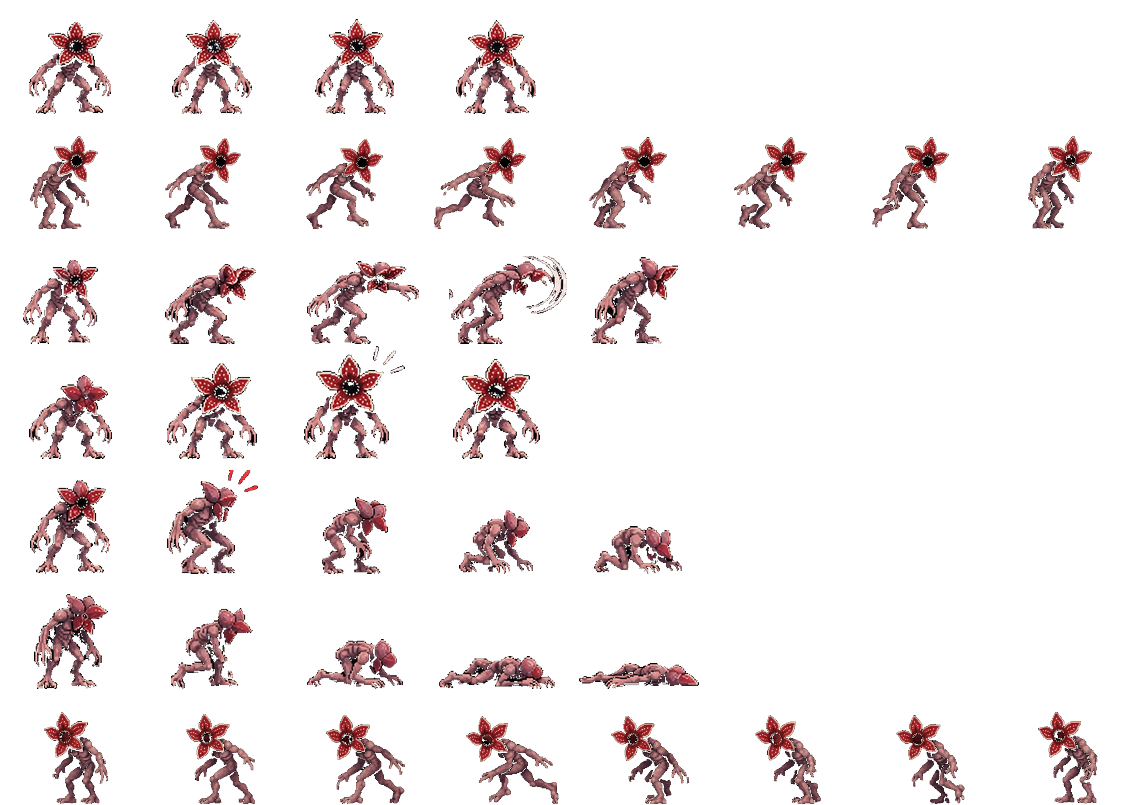
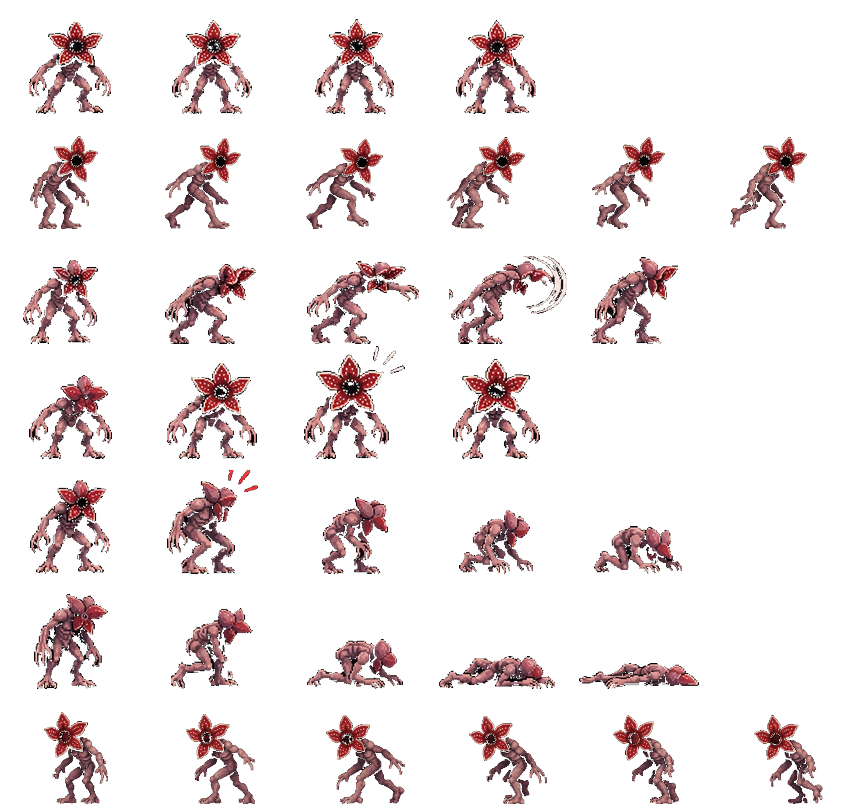
Andar mas fluido (ciclo simetrico y balanceo), pelo de Mike sin transparencias, Eleven con telequinesis, AGOTADA y sangrado de nariz

diff --git a/js/game.js b/js/game.js
@@ -413,6 +413,7 @@ function updatePlayer(dt) {
     if (used) p.shootCd = Math.max(p.shootCd, 0.3);
   }
   const firing = down(...K.fire) && !p.held;
+  if (p.id === 'eleven' && p.jam > 0 && Math.random() < 0.3) G.parts.push({ x: p.x + p.face * 11, y: p.y - 80, vx: rnd(-10, 10), vy: rnd(0, 30), life: 0.7, max: 0.7, color: '#c4101e', g: 520, size: 2.5 });
   if (p.jam > 0) { p.jam -= dt; if (p.jam <= 0) { p.heat = 0.3; Snd.ok(); } }
   else if (firing && !p.c.melee) p.holdT = Math.min(2, p.holdT + dt);
   if (!firing || p.jam > 0) p.holdT = Math.max(0, p.holdT - dt * 3);
@@ -1240,13 +1241,21 @@ function drawPlayer(p, camX) {
   let an = a, flipP = p.face < 0;
   if (flipP && ATLAS[p.id].anims[a + 'L']) { an = a + 'L'; flipP = false; }
   drawCarryBack(p, x);
-  if (p.bindT > 0) { ctx.save(); ctx.shadowColor = '#ff2060'; ctx.shadowBlur = 18; sprite(p.id, an, f, x, p.y, p.c.sc, flipP); ctx.restore(); }
-  else sprite(p.id, an, f, x, p.y, p.c.sc, flipP);
+  // balanceo al andar: el cuerpo sube en el paso y baja en el apoyo, para que el ciclo se vea fluido
+  const bob = (a === 'walk' || a === 'run') && p.onGround && Math.abs(p.vx) > 5 ? -Math.round(1.6 * (1 - (f % 3) / 2)) : 0;
+  if (p.bindT > 0) { ctx.save(); ctx.shadowColor = '#ff2060'; ctx.shadowBlur = 18; sprite(p.id, an, f, x, p.y + bob, p.c.sc, flipP); ctx.restore(); }
+  else sprite(p.id, an, f, x, p.y + bob, p.c.sc, flipP);
   drawCarryFront(p, x);
   drawWeapon(p, x);
+  if (p.id === 'eleven' && !p.dead && (p.heat > 0.5 || p.jam > 0)) { // el esfuerzo telequinético le hace sangrar la nariz
+    const k = p.jam > 0 ? 1 : (p.heat - 0.5) / 0.5, nx = x + p.face * 11, len = 3 + Math.round(9 * k) + (p.jam > 0 ? Math.round(2 + 2 * Math.sin(G.t * 9)) : 0);
+    ctx.fillStyle = '#7a0a14'; ctx.fillRect(nx - 1, p.y - 90, 4, len + 2);
+    ctx.fillStyle = '#d4182a'; ctx.fillRect(nx, p.y - 90, 2, len);
+    ctx.fillStyle = '#ff5a66'; ctx.fillRect(nx, p.y - 90, 1, Math.max(1, len - 3));
+  }
   if (!p.held && !p.dead && G.items.some(it => it.type === 'prop' && Math.abs(it.x - p.x) < 46 && Math.abs(it.y - (p.y - 20)) < 70)) text('DISPARA: COGER', x, p.y - 128, 8, '#9fe0ff', 'center');
   if (p.held && !p.dead) { ctx.save(); ctx.translate(x, p.y - 112 + Math.sin(G.t * 5) * 2); drawProp(p.held, 0.7); ctx.restore(); }
-  if (p.jam > 0) text('¡SOBRECALENTADO!', x, p.y - 128, 8, Math.floor(G.t * 8) % 2 ? '#ff4040' : '#ffd34d', 'center');
+  if (p.jam > 0) text(p.id === 'eleven' ? '¡AGOTADA!' : '¡SOBRECALENTADO!', x, p.y - 128, 8, Math.floor(G.t * 8) % 2 ? '#ff4040' : '#ffd34d', 'center');
   if (p.melee > 0 && p.melee < 0.28) { // estela del bate
     const prog = 1 - p.melee / 0.36;
     ctx.save(); ctx.translate(x + p.face * 38, p.y - 56); ctx.scale(p.face, 1);
@@ -1274,7 +1283,7 @@ function drawHUD() {
   }
   text(`VIDAS x${Math.max(0, G.lives)}`, 84, 70, 9, '#fff');
   ctx.save(); ctx.translate(200, 62); drawGrenade(ctx, 0.62); ctx.restore(); text(`x${p.gren}`, 214, 70, 10, '#ffb060');
-  text(`ARMA ${'*'.repeat(p.wpn)}`, 190, 34, 9, '#9fe0ff');
+  if (p.id === 'eleven') text(`TELEQUINESIS ${'*'.repeat(p.wpn)}`, 190, 34, 7, '#d8a8ff'); else text(`ARMA ${'*'.repeat(p.wpn)}`, 190, 34, 9, '#9fe0ff');
   if (!c.melee) { // barra de calor del arma
     ctx.fillStyle = '#2a0a10'; ctx.fillRect(190, 40, 108, 8);
     ctx.fillStyle = p.jam > 0 ? (Math.floor(G.t * 8) % 2 ? '#ff2a2a' : '#7a1010') : p.heat < 0.6 ? '#ffd34d' : p.heat < 0.85 ? '#ff8a30' : '#ff3030';

diff --git a/js/atlas.js b/js/atlas.js
@@ -10,7 +10,7 @@ window.ATLAS = {
    },
    "walk": {
     "row": 1,
-    "n": 8
+    "n": 6
    },
    "shoot": {
     "row": 2,
@@ -22,7 +22,7 @@ window.ATLAS = {
    },
    "walkL": {
     "row": 4,
-    "n": 8
+    "n": 6
    }
   }
  },
@@ -37,7 +37,7 @@ window.ATLAS = {
    },
    "walk": {
     "row": 1,
-    "n": 8
+    "n": 6
    },
    "attack": {
     "row": 2,
@@ -57,7 +57,7 @@ window.ATLAS = {
    },
    "walkL": {
     "row": 6,
-    "n": 8
+    "n": 6
    }
   }
  },
@@ -72,7 +72,7 @@ window.ATLAS = {
    },
    "walk": {
     "row": 1,
-    "n": 8
+    "n": 6
    },
    "power": {
     "row": 2,
@@ -84,14 +84,14 @@ window.ATLAS = {
    },
    "walkL": {
     "row": 4,
-    "n": 8
+    "n": 6
    }
   }
  },
  "mike": {
   "img": "assets/mike.png",
   "cw": 126,
-  "ch": 123,
+  "ch": 124,
   "anims": {
    "idle": {
     "row": 0,
@@ -99,7 +99,7 @@ window.ATLAS = {
    },
    "walk": {
     "row": 1,
-    "n": 8
+    "n": 6
    },
    "talk": {
     "row": 2,
@@ -111,7 +111,7 @@ window.ATLAS = {
    },
    "walkL": {
     "row": 4,
-    "n": 8
+    "n": 6
    }
   }
  },
@@ -126,7 +126,7 @@ window.ATLAS = {
    },
    "walk": {
     "row": 1,
-    "n": 8
+    "n": 6
    },
    "talk": {
     "row": 2,
@@ -138,7 +138,7 @@ window.ATLAS = {
    },
    "walkL": {
     "row": 4,
-    "n": 8
+    "n": 6
    }
   }
  },
@@ -153,11 +153,11 @@ window.ATLAS = {
    },
    "walk": {
     "row": 1,
-    "n": 8
+    "n": 6
    },
    "run": {
     "row": 2,
-    "n": 8
+    "n": 6
    },
    "attack": {
     "row": 3,
@@ -173,18 +173,18 @@ window.ATLAS = {
    },
    "walkL": {
     "row": 6,
-    "n": 8
+    "n": 6
    },
    "runL": {
     "row": 7,
-    "n": 8
+    "n": 6
    }
   }
  },
  "lucas": {
   "img": "assets/lucas.png",
   "cw": 155,
-  "ch": 114,
+  "ch": 115,
   "anims": {
    "idle": {
     "row": 0,
@@ -200,11 +200,11 @@ window.ATLAS = {
    },
    "walk": {
     "row": 3,
-    "n": 8
+    "n": 6
    },
    "walkL": {
     "row": 4,
-    "n": 8
+    "n": 6
    }
   }
  },

diff --git a/sw.js b/sw.js
@@ -1,6 +1,6 @@
 /* Service worker: deja el juego instalable y jugable sin conexión.
  * Estrategia "stale-while-revalidate": sirve de la caché y actualiza en segundo plano. */
-const CACHE = 'stranger-slug-v14';
+const CACHE = 'stranger-slug-v15';
 const ASSETS = [
   './', 'index.html', 'manifest.webmanifest',
   'js/atlas.js', 'js/game.js', 'js/touch.js',

diff --git a/tools/build_assets.py b/tools/build_assets.py
@@ -43,12 +43,15 @@ def frames_in(img, box, bg, thr=26, gap=7, minw=14, expect=None):
         runs = [(cuts[i], cuts[i+1]-1) for i in range(expect)]
     return crop, runs
 
-def cut(crop, run, bg, thr=26, solid=False, boost=1.0):
+def cut(crop, run, bg, thr=26, solid=False, boost=1.0, inner=12, local_bg=False, solid_top=0.0, fg_thr=14):
     """devuelve RGBA recortado, quitando fondo por flood fill desde el borde"""
     a, b = run
     f = crop.crop((max(a-2, 0), 0, min(b+3, crop.width), crop.height)).convert('RGB')
     w, h = f.size
     px = f.load()
+    if local_bg:  # fondo = mediana del borde del propio frame (pelo casi negro sobre fondo oscuro)
+        edge = sorted([px[x, y] for x in range(w) for y in (0, h-1)] + [px[x, y] for y in range(h) for x in (0, w-1)])
+        bg = edge[len(edge)//2]
     seen = [[False]*w for _ in range(h)]
     stack = []
     for x in range(w):
@@ -61,13 +64,14 @@ def cut(crop, run, bg, thr=26, solid=False, boost=1.0):
         if dist(px[x, y], bg) > thr: continue
         seen[y][x] = True
         stack += [(x+1, y), (x-1, y), (x, y+1), (x, y-1)]
-    if solid:
+    seen_n = seen
+    if solid or solid_top:
         # silueta cerrada: el cuerpo oscuro no se confunde con el fondo del sheet
         fg = Image.new('L', (w, h))
         fp = fg.load()
         for y in range(h):
             for x in range(w):
-                fp[x, y] = 255 if dist(px[x, y], bg) > 14 else 0
+                fp[x, y] = 255 if dist(px[x, y], bg) > fg_thr else 0
         cp = fg.filter(ImageFilter.MaxFilter(5)).filter(ImageFilter.MinFilter(5)).load()
         seen = [[False]*w for _ in range(h)]
         stack = [(x, 0) for x in range(w)] + [(x, h-1) for x in range(w)] + [(0, y) for y in range(h)] + [(w-1, y) for y in range(h)]
@@ -76,11 +80,14 @@ def cut(crop, run, bg, thr=26, solid=False, boost=1.0):
             if x < 0 or y < 0 or x >= w or y >= h or seen[y][x] or cp[x, y]: continue
             seen[y][x] = True
             stack += [(x+1, y), (x-1, y), (x, y+1), (x, y-1)]
+    if solid_top:  # silueta cerrada solo arriba (cabeza y pelo); abajo, el recorte normal
+        seen_c, seen = seen, seen_n
     out = Image.new('RGBA', (w, h))
     op = out.load()
     for y in range(h):
         for x in range(w):
-            if seen[y][x] or (not solid and dist(px[x, y], bg) < 12):
+            top = solid_top and y < solid_top * h
+            if (seen_c[y][x] if top else (seen[y][x] or (not solid and dist(px[x, y], bg) < inner))):
                 op[x, y] = (0, 0, 0, 0)
             else:
                 r, g, b = px[x, y]
@@ -109,7 +116,7 @@ def cut(crop, run, bg, thr=26, solid=False, boost=1.0):
         print('   (aviso) frame toca el borde vertical del recorte', 'arriba' if bb[1] <= 0 else 'abajo')
     return out.crop(bb)
 
-def sheet_frames(sheet, bg, box, n, thr=26, scrub=True):
+def sheet_frames(sheet, bg, box, n, thr=26, scrub=True, cut_thr=None, local_bg=False, solid_top=0.0):
     img = Image.open(os.path.join(SRC, sheet)).convert('RGB')
     # borra la rejilla del panel: sus píxeles son grises apagados (el personaje no usa grises medios)
     x0, y0, x1, y1 = box
@@ -119,7 +126,8 @@ def sheet_frames(sheet, bg, box, n, thr=26, scrub=True):
             c = px[x, y]
             if 66 <= min(c) and max(c) <= 112 and max(c) - min(c) <= 20 and c[0] >= c[1] - 2: px[x, y] = bg
     crop, runs = frames_in(img, box, bg, thr, expect=n)
-    return [thin_clean(fr) for fr in (cut(crop, r, bg, thr) for r in runs) if fr is not None]
+    ct = cut_thr or thr
+    return [thin_clean(fr) for fr in (cut(crop, r, bg, ct, inner=min(12, ct), local_bg=local_bg, solid_top=solid_top) for r in runs) if fr is not None]
 
 def head_x(fr):
     """ancla de los frames de andar: centro de cabeza y tronco (8%-45% de la altura), que apenas se mueven en el ciclo;
@@ -155,7 +163,7 @@ def thin_clean(fr, passes=2, opening=True):
     bb = fr.getbbox()
     return fr.crop(bb) if bb else fr
 
-def build_char(name, sheet, bg, rows, thr=26, blank=(), solid=False, boost=1.0, idle_h=None, override=None):
+def build_char(name, sheet, bg, rows, thr=26, blank=(), solid=False, boost=1.0, idle_h=None, override=None, solid_top=0.0, fg_thr=14):
     """rows: {anim: (box, expected_count, anchor)}  anchor: 'c' centro | ('l', offset)"""
     img = Image.open(os.path.join(SRC, sheet)).convert('RGB')
     from PIL import ImageDraw
@@ -168,7 +176,7 @@ def build_char(name, sheet, bg, rows, thr=26, blank=(), solid=False, boost=1.0, 
             print(f'  !! {name}.{anim}: esperaba {n} frames, detecte {len(runs)} {runs}')
         for i, r in enumerate(runs):
             if i == 0: print(f'  [{name}.{anim}]')
-            fr = cut(crop, r, bg, thr, solid, boost)
+            fr = cut(crop, r, bg, thr, solid, boost, solid_top=solid_top, fg_thr=fg_thr)
             if fr is None: continue
             ax = fr.width/2 if anchor == 'c' else head_x(fr) if anchor == 'torso' else anchor[1]
             items.append((anim, i, fr, ax))
@@ -182,13 +190,15 @@ def build_char(name, sheet, bg, rows, thr=26, blank=(), solid=False, boost=1.0, 
         h_idle = next(fr.height for a, i, fr, _ in items if a == 'idle' and i == 0)
         for anim, ov in override.items():
             osheet, obg, obox, on = ov['sheet'], ov['bg'], ov['box'], ov['n']
-            kw = dict(thr=ov.get('thr', 26), scrub=ov.get('scrub', True))
+            kw = dict(thr=ov.get('thr', 26), scrub=ov.get('scrub', True), cut_thr=ov.get('cut_thr'), local_bg=ov.get('local_bg', False), solid_top=ov.get('solid_top', 0.0))
             drop = set(ov.get('drop', ()))   # frames "de pie" (pies juntos) que harían parar el ciclo
-            right = [f for i, f in enumerate(sheet_frames(osheet, obg, obox, on, **kw)) if i not in drop]
+            pick = ov.get('pick')            # ciclo simétrico: solo estos frames, en este orden
+            sel = (lambda frs: [frs[i] for i in pick if i < len(frs)]) if pick else (lambda frs: [f for i, f in enumerate(frs) if i not in drop])
+            right = sel(sheet_frames(osheet, obg, obox, on, **kw))
             k = h_idle / sorted(f.height for f in right)[len(right)//2]
             sets = {anim: right}
             if ov.get('left'):  # fila "Walk ←" de la hoja: se usa tal cual (sin voltear) al mirar a la izquierda
-                left = [f for i, f in enumerate(sheet_frames(osheet, obg, ov['left'], on, **kw)) if i not in drop]
+                left = sel(sheet_frames(osheet, obg, ov['left'], on, **kw))
                 # si faltan fotogramas a la izquierda, se rellenan con el espejo de los de la derecha (y al revés)
                 while len(left) < len(right): left.append(right[len(left)].transpose(Image.FLIP_LEFT_RIGHT))
                 while len(right) < len(left): right.append(left[len(right)].transpose(Image.FLIP_LEFT_RIGHT))
@@ -225,7 +235,7 @@ atlas['will'] = build_char('will', 'will.png', (21, 16, 24), {
     'walk':  ((635, 538, 1450, 690), 6, 'c'),
     'shoot': ((40, 768, 712, 925), 5, ('l', 52)),
     'other': ((735, 764, 1520, 925), 7, 'c'),
-}, idle_h=111, override={'walk': dict(sheet='will1.png', bg=(21, 16, 23), box=(300, 75, 1900, 277), left=(300, 340, 1900, 551), n=8, scrub=False)}, blank=[(40, 490, 215, 540), (625, 490, 790, 540), (40, 712, 250, 764), (745, 712, 975, 764)])
+}, idle_h=111, override={'walk': dict(sheet='will1.png', bg=(21, 16, 23), box=(300, 75, 1900, 277), left=(300, 340, 1900, 551), n=8, scrub=False, pick=[0, 1, 2, 4, 5, 6])}, blank=[(40, 490, 215, 540), (625, 490, 790, 540), (40, 712, 250, 764), (745, 712, 975, 764)])
 atlas['demogorgon'] = build_char('demogorgon', 'demogorgon.png', (19, 18, 25), {
     'idle':   ((45, 452, 595, 595), 4, 'c'),
     'walk':   ((622, 452, 1490, 595), 6, 'c'),
@@ -233,7 +243,7 @@ atlas['demogorgon'] = build_char('demogorgon', 'demogorgon.png', (19, 18, 25), {
     'roar':   ((828, 606, 1505, 778), 4, 'c'),
     'hurt':   ((38, 828, 708, 978), 5, 'c'),
     'die':    ((738, 834, 1515, 978), 5, 'c'),
-}, idle_h=92, override={'walk': dict(sheet='demo1.png', bg=(19, 13, 16), box=(300, 75, 1900, 277), left=(300, 340, 1900, 551), n=8, scrub=False)}, blank=[(30, 405, 200, 463), (630, 405, 782, 463), (30, 598, 242, 647), (826, 598, 1006, 647), (28, 783, 216, 833), (740, 783, 845, 833)])
+}, idle_h=92, override={'walk': dict(sheet='demo1.png', bg=(19, 13, 16), box=(300, 75, 1900, 277), left=(300, 340, 1900, 551), n=8, scrub=False, pick=[0, 1, 2, 4, 5, 6])}, blank=[(30, 405, 200, 463), (630, 405, 782, 463), (30, 598, 242, 647), (826, 598, 1006, 647), (28, 783, 216, 833), (740, 783, 845, 833)])
 # --- Eleven (WA0025)
 E = 'IMG-20261121-WA0025.jpg'
 atlas['eleven'] = build_char('eleven', E, DARK, {
@@ -241,21 +251,21 @@ atlas['eleven'] = build_char('eleven', E, DARK, {
     'walk':  ((1040, 305, 1510, 430), 4, 'c'),
     'power': ((1040, 460, 1510, 590), 4, 'c'),
     'other': ((1040, 640, 1510, 760), 4, 'c'),
-}, override={'walk': dict(sheet='eleven1.png', bg=(22, 15, 21), box=(300, 75, 1900, 277), left=(300, 340, 1900, 551), n=8, scrub=False)})
+}, override={'walk': dict(sheet='eleven1.png', bg=(22, 15, 21), box=(300, 75, 1900, 277), left=(300, 340, 1900, 551), n=8, scrub=False, pick=[0, 1, 2, 4, 5, 6])})
 # --- Mike (WA0027)
 atlas['mike'] = build_char('mike', 'IMG-20261121-WA0027.jpg', DARK, {
     'idle':  ((1045, 160, 1510, 285), 4, 'c'),
     'walk':  ((1045, 305, 1510, 430), 4, 'c'),
     'talk':  ((1045, 460, 1510, 590), 4, 'c'),
     'other': ((1045, 640, 1510, 760), 4, 'c'),
-}, override={'walk': dict(sheet='mike1.png', bg=(22, 15, 21), box=(300, 75, 1900, 277), left=(300, 340, 1900, 551), n=8, scrub=False, thr=9)})
+}, solid_top=0.45, fg_thr=7, override={'walk': dict(sheet='mike1.png', bg=(22, 15, 21), box=(300, 75, 1900, 277), left=(300, 340, 1900, 551), n=8, scrub=False, thr=9, cut_thr=4, local_bg=True, solid_top=0.42, pick=[0, 1, 2, 4, 5, 6])})
 # --- Dustin (WA0028)
 atlas['dustin'] = build_char('dustin', 'IMG-20261121-WA0028.jpg', DARK, {
     'idle':  ((1045, 160, 1510, 285), 4, 'c'),
     'walk':  ((1045, 305, 1510, 430), 4, 'c'),
     'talk':  ((1045, 460, 1510, 590), 4, 'c'),
     'other': ((1045, 640, 1510, 760), 4, 'c'),
-}, override={'walk': dict(sheet='dustin1.png', bg=(17, 13, 16), box=(300, 75, 1900, 277), left=(300, 340, 1900, 551), n=8, scrub=False)})
+}, override={'walk': dict(sheet='dustin1.png', bg=(17, 13, 16), box=(300, 75, 1900, 277), left=(300, 340, 1900, 551), n=8, scrub=False, pick=[0, 1, 2, 4, 5, 6])})
 # --- Steve (WA0029)
 S = 'IMG-20261121-WA0029.jpg'
 atlas['steve'] = build_char('steve', S, DARK, {
@@ -265,14 +275,14 @@ atlas['steve'] = build_char('steve', S, DARK, {
     'attack': ((40, 810, 560, 955), 5, ('l', 40)),
     'hurt':   ((595, 825, 985, 955), 4, 'c'),
     'other':  ((1020, 815, 1440, 955), 4, 'c'),
-}, override={'walk': dict(sheet='steve1.png', bg=(17, 13, 18), box=(300, 75, 1900, 277), left=(300, 340, 1900, 551), n=8, scrub=False),
-              'run': dict(sheet='steve1.png', bg=(17, 13, 18), box=(300, 75, 1900, 277), left=(300, 340, 1900, 551), n=8, scrub=False)})
+}, override={'walk': dict(sheet='steve1.png', bg=(17, 13, 18), box=(300, 75, 1900, 277), left=(300, 340, 1900, 551), n=8, scrub=False, pick=[0, 1, 2, 4, 5, 6]),
+              'run': dict(sheet='steve1.png', bg=(17, 13, 18), box=(300, 75, 1900, 277), left=(300, 340, 1900, 551), n=8, scrub=False, pick=[0, 1, 2, 4, 5, 6])})
 # --- Lucas (lucas1.png: andar; lucas2.png: reposo, tirachinas y otras acciones)
 atlas['lucas'] = build_char('lucas', 'lucas2.png', (22, 16, 24), {
     'idle':  ((60, 535, 530, 685), 4, 'torso'),
     'shoot': ((40, 770, 715, 920), 5, 'torso'),
     'other': ((755, 775, 1515, 920), 7, 'torso'),
-}, idle_h=111, override={'walk': dict(sheet='lucas1.png', bg=(26, 22, 30), box=(320, 78, 1875, 292), left=(320, 345, 1875, 560), n=8, scrub=False)})
+}, idle_h=111, override={'walk': dict(sheet='lucas1.png', bg=(26, 22, 30), box=(320, 78, 1875, 292), left=(320, 345, 1875, 560), n=8, scrub=False, pick=[0, 1, 2, 4, 5, 6])})
 # --- Vecna (vicna.png): hoja nueva de 8 frames por animación, sin reescalado suave (nítido)
 def build_vecna(sheet='vicna.png', bg=(11, 8, 11), target_h=176):
     img = Image.open(os.path.join(SRC, sheet)).convert('RGB')

diff --git a/README.md b/README.md
@@ -21,7 +21,7 @@ Por defecto (todas se pueden cambiar en **AJUSTES → CONTROLES**; se guardan en
 | Sonido / Pantalla completa | M / F (o el botón ⛶ en pantalla táctil) |
 
 **Armas** (todas salen de la serie; solo Eleven no lleva arma, usa telequinesis): Will, rifle de caza; Mike, tirachinas; Lucas, Wrist Rocket (más rápido y potente); Dustin, pistola de bengalas; Steve, bate con clavos.
-**Calor:** disparar sin parar sobrecalienta el arma (barra bajo ARMA): mantener pulsado dispara más lento y con menos puntería, y al llegar al máximo se bloquea 1,4 s. Disparar en ráfagas cortas lo enfría.
+**Calor:** disparar sin parar sobrecalienta el arma (barra bajo ARMA): mantener pulsado dispara más lento y con menos puntería, y al llegar al máximo se bloquea 1,4 s (Eleven, en cambio, queda AGOTADA y le sangra la nariz). Disparar en ráfagas cortas lo enfría.
 **Objetos:** en cada acto hay objetos por el suelo (silla y extintor en el laboratorio; silla y lámpara en la casa y la mansión; roca y bidón en el resto). Párate encima y pulsa DISPARO para cogerlo; pulsa DISPARO otra vez para soltarlo lanzado hacia delante (ABAJO + DISPARO lo deja a tus pies). BOMBA también lo lanza. La silla, la lámpara y la roca golpean fuerte a un enemigo; el extintor y el bidón explotan en área y aturden.
 
 El menú de pausa incluye ajustes de música, efectos, temblor de pantalla y pantalla completa.
